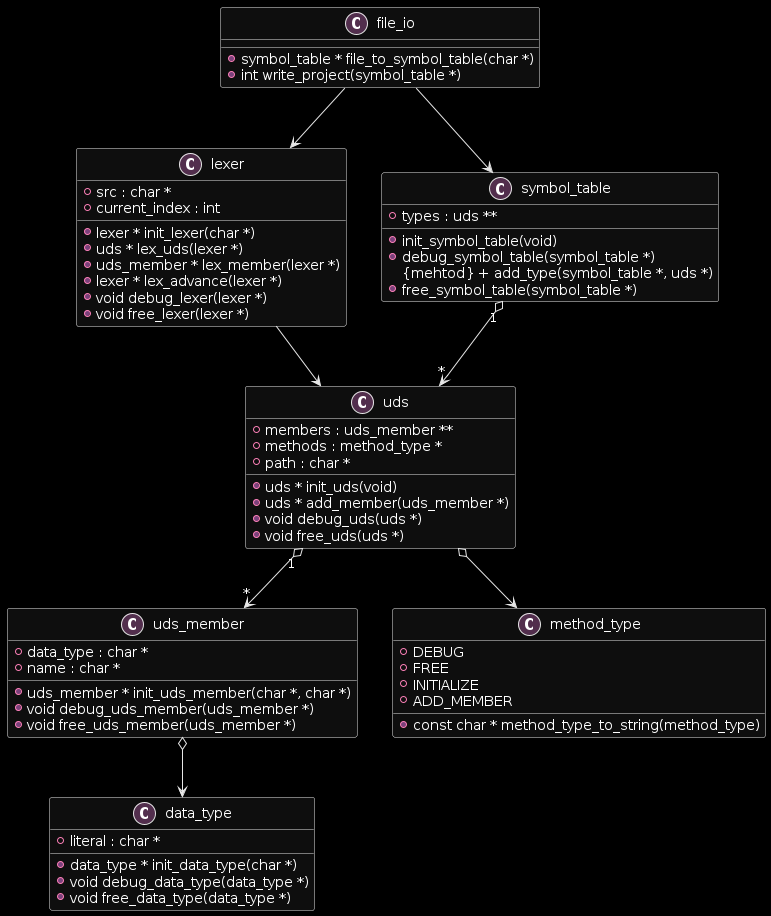
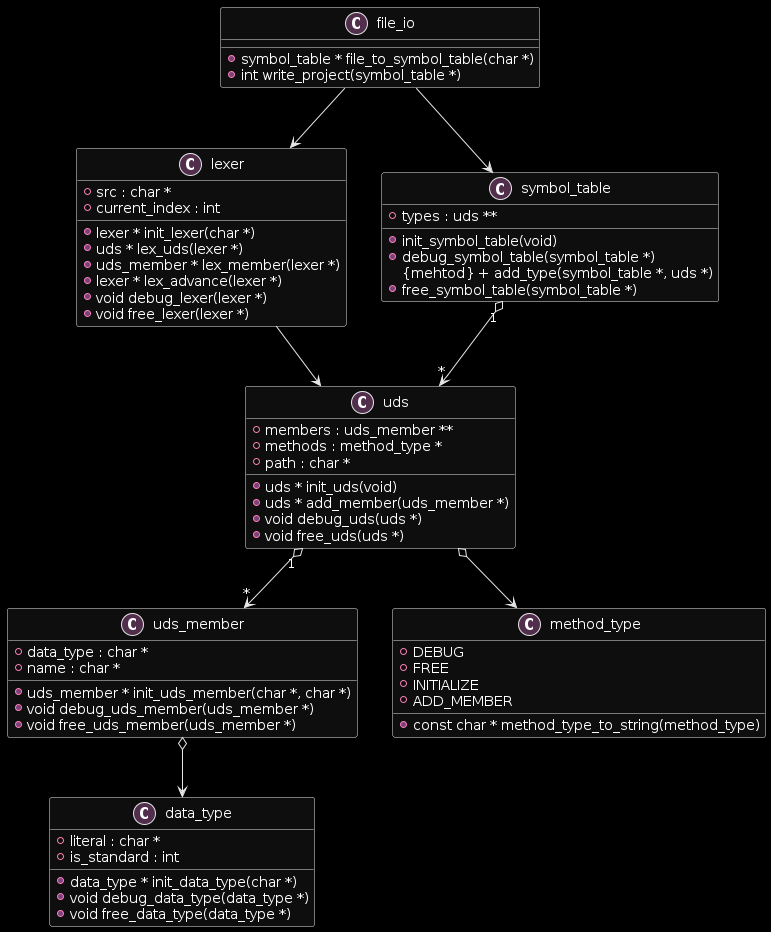
uds_member, data_type, and method_type complete for now

Changed region(s): [[0.0, 0.0306, 0.9961, 1.0], [0.4981, 0.1528, 0.9339, 0.3668]]

diff --git a/src/uds/include/data_type.h b/src/uds/include/data_type.h
@@ -1,0 +1,26 @@
+#ifndef DTY_H
+#define DTY_H
+
+#include <stdio.h>
+#include <stdlib.h>
+#include <string.h>
+
+#include "../../main/include/constants_macros.h"
+
+// is x (int|double|char) ? 1 : 0
+#define IS_STANDARD_TYPE(x) (!strncmp(x, "int", TYPE_MAX_SIZE) ||        \
+                             !strncmp(x, "double", TYPE_MAX_SIZE) ||     \
+                             !strncmp(x, "char", TYPE_MAX_SIZE)) ? 1 : 0 \
+
+typedef struct DATA_TYPE_T {
+  char * literal;
+  int is_standard;
+  int dereference_level;
+} data_type;
+
+data_type * init_data_type(char * literal, int dereference_level);
+void debug_data_type(data_type * the_dt);
+int is_standard_type(char * literal);
+void free_data_type(data_type * the_dt);
+
+#endif

diff --git a/src/uds/uds_member.c b/src/uds/uds_member.c
@@ -1,0 +1,24 @@
+#include "include/uds_member.h"
+
+uds_member * init_uds_member(data_type * type, char * name) {
+  uds_member * the_uds_member = calloc(1, sizeof(struct UDS_MEMBER_T));
+  the_uds_member->type = type;
+  the_uds_member->name = name;
+  return the_uds_member;
+}
+
+void debug_uds_member(uds_member * the_uds_member) {
+  printf("[UDS_MEMBER]\n");
+  printf("Name: %s\n", the_uds_member->name);
+  debug_data_type(the_uds_member->type);
+}
+
+void free_uds_member(uds_member * the_uds_member) {
+  if(the_uds_member) {
+    if(the_uds_member->type)
+      free_data_type(the_uds_member->type);
+    if(the_uds_member->name)
+      free(the_uds_member->name);
+    free(the_uds_member);
+  }
+}

diff --git a/src/uds/data_type.c b/src/uds/data_type.c
@@ -1,0 +1,23 @@
+#define _POSIX_C_SOURCE 200809L // C99 Standard for strn* funcs, POSIX only
+#include "include/data_type.h"
+
+data_type * init_data_type(char * literal, int dereference_level) {
+  data_type * the_dt = calloc(1, sizeof(struct DATA_TYPE_T));
+  the_dt->literal = literal;
+  the_dt->is_standard = IS_STANDARD_TYPE(the_dt->literal);
+  the_dt->dereference_level = dereference_level;
+  return the_dt;
+}
+
+void debug_data_type(data_type * the_dt) {
+  printf("[DATA_TYPE]\n");
+  printf("literal: %s", the_dt->literal);
+}
+
+void free_data_type(data_type * the_dt) {
+  if(the_dt) {
+    if(the_dt->literal)
+      free(the_dt->literal);
+    free(the_dt);
+  }
+}

diff --git a/src/uds/method_type.c b/src/uds/method_type.c
@@ -1,0 +1,12 @@
+#include "include/method_type.h"
+
+const char * method_type_to_string(method_type the_mt) {
+  switch(the_mt) {
+    case INIT:      return "Init";
+    case DEBUG:     return "Debug";
+    case ADD:       return "Add";
+    case DEEP_COPY: return "Deep Copy";
+    case FREE:      return "Free";
+  }
+  return NULL;
+}

diff --git a/src/uds/include/uds_member.h b/src/uds/include/uds_member.h
@@ -1,0 +1,15 @@
+#ifndef UDSM_H
+#define UDSM_H
+
+#include "data_type.h"
+
+typedef struct UDS_MEMBER_T {
+  data_type * type;
+  char * name;
+} uds_member;
+
+uds_member * init_uds_member(data_type * type, char * name);
+void debug_uds_member(uds_member * the_uds_member);
+void free_uds_member(uds_member * the_uds_member);
+
+#endif

diff --git a/src/uds/include/method_type.h b/src/uds/include/method_type.h
@@ -1,0 +1,14 @@
+#ifndef MDT_H
+#define MDT_H
+
+#include <stdlib.h>
+
+typedef enum {
+  INIT,
+  DEBUG,
+  ADD,
+  DEEP_COPY,
+  FREE,
+} method_type;
+
+#endif

diff --git a/src/main/include/constants_macros.h b/src/main/include/constants_macros.h
@@ -1,0 +1,6 @@
+#ifndef CONST_H
+#define CONST_H
+
+#define TYPE_MAX_SIZE 128
+
+#endif

diff --git a/src/file_io/include/file_io.h b/src/file_io/include/file_io.h
@@ -1,0 +1,5 @@
+#ifndef SRC_H
+#define SRC_H
+
+
+#endif

diff --git a/src/lexer/include/lexer.h b/src/lexer/include/lexer.h
@@ -1,0 +1,5 @@
+#ifndef SRC_H
+#define SRC_H
+
+
+#endif

diff --git a/src/uds/include/symbol_table.h b/src/uds/include/symbol_table.h
@@ -1,0 +1,5 @@
+#ifndef SRC_H
+#define SRC_H
+
+
+#endif

diff --git a/src/uds/include/uds.h b/src/uds/include/uds.h
@@ -1,0 +1,5 @@
+#ifndef SRC_H
+#define SRC_H
+
+
+#endif

diff --git a/src/uds/symbol_table.c b/src/uds/symbol_table.c
@@ -1,0 +1,1 @@
+#include "include/symbol_table.h"
